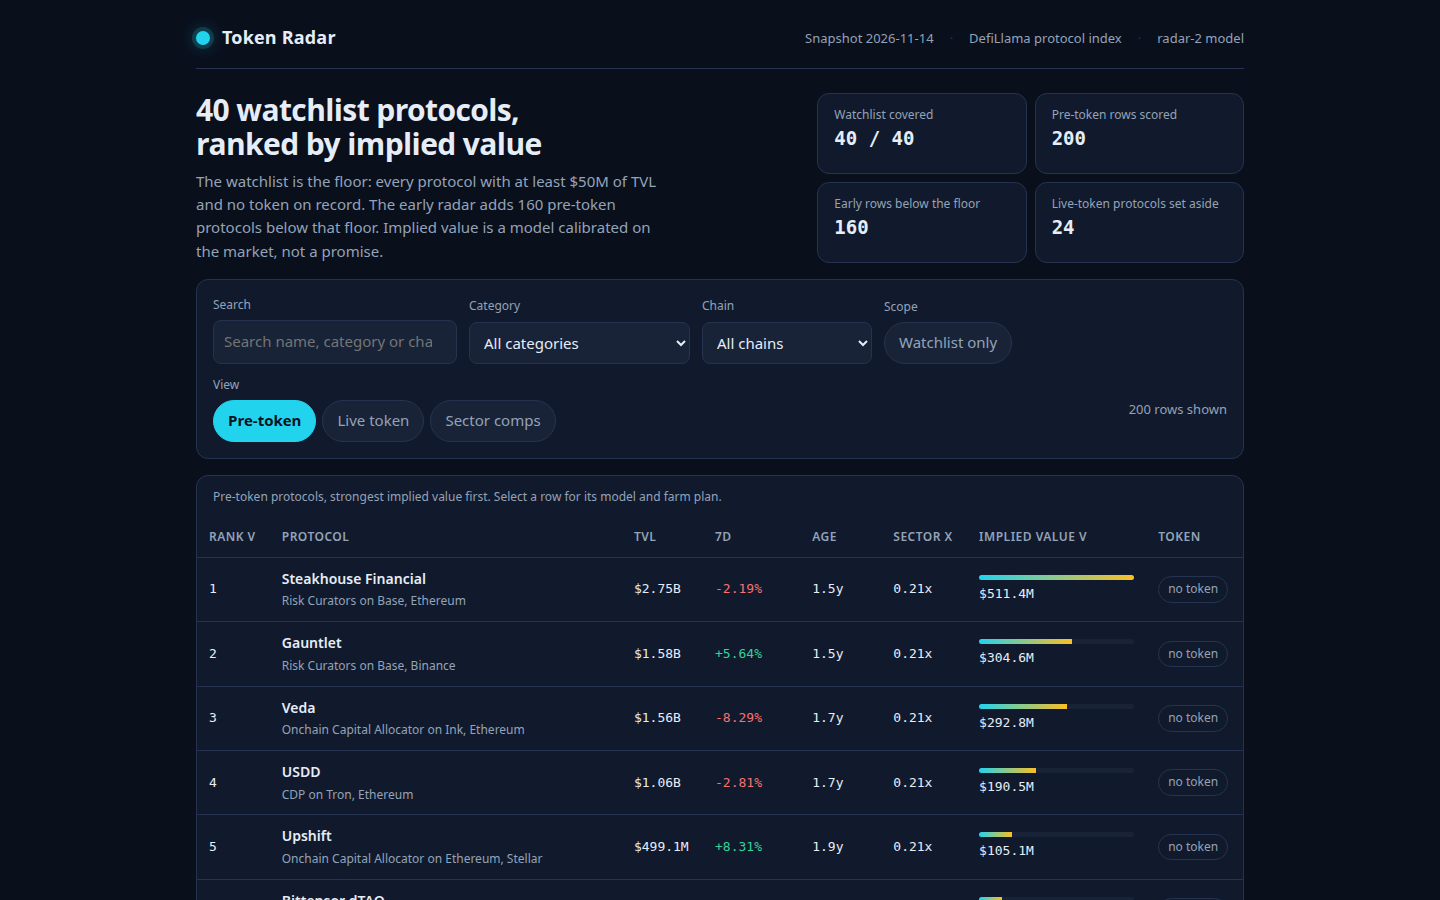
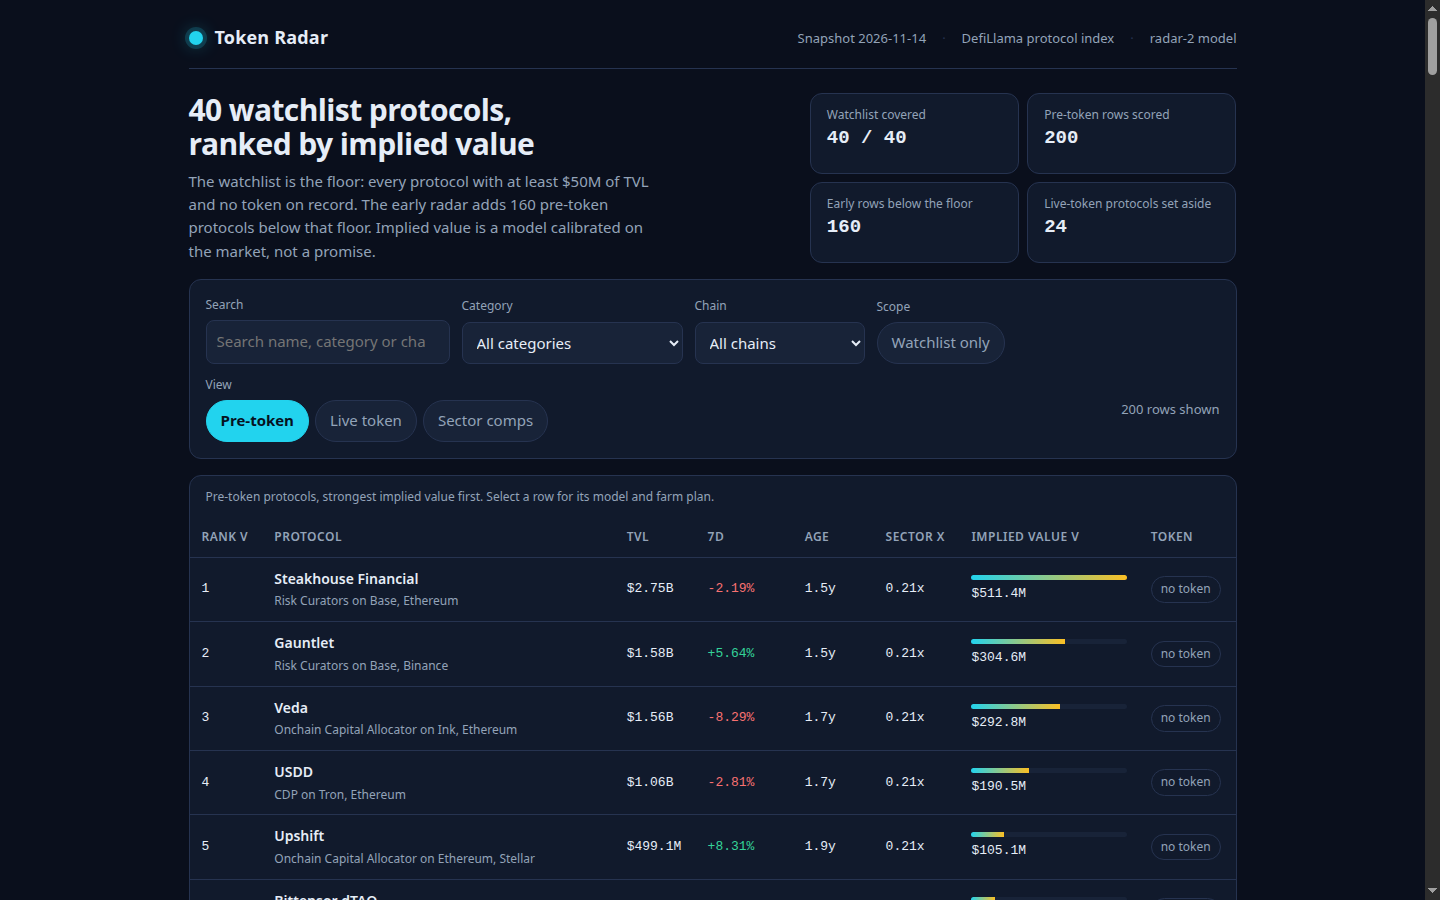
Revise: deeper farm plans, documented calibration, sector comps in detail view
- Farm plans grow from six to seven steps: a second-chain step for
  multi-chain protocols, per-chain gas figures, a TVL-tier label, an
  age-based horizon, and a watch-for step naming the one signal to
  check before a token is claimed.
- lib/model.ts documents the comps calibration in full: who counts as
  a trading comp, why the median and not the mean, the four-comp
  minimum and the market fallback, the 0.03-1.50 clamps, and why each
  multiplier exists.
- The detail view shows the sector comps behind a row's multiple:
  the sector, the comp count and whether the row fell back to the
  market median; data.js now carries sector and sector_comps per row.
- Screenshots retaken from the revised dashboard so the board, the
  detail view and the filtered view match the code.

Gate shape preserved: 200 rows, all 40 watchlist slugs covered,
ranks 1-200, implied values non-increasing, farm steps 3-12 each
20-600 chars, byte-identical output across two runs.

diff --git a/lib/model.ts b/lib/model.ts
@@ -21,8 +21,46 @@
 //   chainMult       = 1 + min(chains - 1, 5) x 0.02
 //   implied         = max(1, round(base x growthMult x maturity x chainMult))
 //
-// No protocol name is ever special-cased: the same function scores every row, and the sector
-// multiples are derived from the snapshot at run time, never written in by hand.
+// How the calibration is read out of the snapshot (computeComps, sectorMultiple):
+//   - A trading comp is a protocol whose record carries a token that already trades: it has both
+//     a market cap and a CoinGecko id, a positive TVL and a positive market cap, and the ratio of
+//     the two is a finite positive number. A protocol missing any of those is not a comp.
+//   - The sector multiple is the MEDIAN of the comps' market-cap-to-TVL ratios, not the mean.
+//     A median is used because one protocol with an extreme ratio (a tiny TVL with a large cap,
+//     or a stablecoin whose cap sits near its TVL) would drag a mean far from the sector's
+//     centre, while the median stays with the typical protocol in the sector.
+//   - A sector is only used when it holds at least four trading comps (MODEL.min_comps). With
+//     fewer than four, the sector's median rests on one or two names and is not a market; the
+//     protocol is priced at the whole market's median instead, and its sector is recorded as
+//     "Market" so the dashboard can say the row fell back.
+//   - The multiple is clamped to [0.03, 1.50]. Below 0.03 a protocol would be priced as though
+//     its token were nearly worthless however large its TVL, and above 1.50 a thin sector's
+//     median could price a pre-token protocol above the market cap of its own TVL's peers.
+//     The clamp keeps the board's values inside the range the market itself shows.
+//   - The multiples are derived from the snapshot at run time, every run, and are never written
+//     in by hand. The same snapshot that prices the board is the one the comps come from, so a
+//     different snapshot would price the board differently and the board is honest about it.
+//
+// Why each multiplier exists:
+//   - Growth (change_7d, clamped to -60..120, weight 0.5): a protocol whose TVL is growing is
+//     attracting deposits now, and a token issued into growth is worth more than one issued into
+//     decline. The clamp keeps a single week's spike or crash from doubling or halving a value.
+//   - Maturity (age with no token, 0.6 at day zero rising to 1.0 at three years): a protocol
+//     that has run for years with no token has had time to build the users and the TVL a launch
+//     would price, and the market has had time to expect one. A brand-new protocol is
+//     discounted. When the snapshot carries no listing date, the age is taken as 365 days, the
+//     middle of the range, rather than zero or three years.
+//   - Chain breadth (up to 1.10 for six or more chains): a protocol on several chains reaches
+//     more users and more liquidity than one on a single chain, so its token would launch into
+//     a wider market. The step is 0.02 a chain, capped at five steps, so breadth helps but
+//     never dominates the value.
+//
+// The farm plan is derived from the same record (category, chains, TVL, age), never from a
+// hand-written list of names. Gas is priced for the protocol's own chain, the capital follows
+// its TVL tier, the hold follows its age, and the watch step names what to check before a
+// token is claimed. No protocol name is ever special-cased: the same function scores every
+// row, and the sector multiples are derived from the snapshot at run time, never written in
+// by hand.
 
 /** The snapshot's protocol entry: exactly the ten fields the sealed input carries. */
 export interface SnapshotProtocol {
@@ -136,6 +174,8 @@ export interface RadarRow {
   listed_at: string | null;
   age_days: number | null;
   implied_value_usd: number;
+  sector: string;
+  sector_comps: number;
   sector_multiple: number;
   growth_multiplier: number;
   maturity_multiplier: number;
@@ -221,6 +261,10 @@ export function computeComps(snapshot: Snapshot, model: ModelConstants = MODEL):
   const ratios = new Map<string, number[]>();
   const all: number[] = [];
   for (const p of snapshot.protocols) {
+    // A comp must already trade: a market cap and a CoinGecko id, a positive TVL and a positive
+    // market cap, and a ratio that is a finite positive number. A protocol that records no token
+    // is the thing being priced, not a comp, and a zero or negative TVL would make the ratio
+    // meaningless, so both are left out rather than patched with a guess.
     if (p.mcap_usd === null || p.gecko_id === null) continue;
     if (p.tvl_usd <= 0 || p.mcap_usd <= 0) continue;
     const ratio = p.mcap_usd / p.tvl_usd;
@@ -231,6 +275,8 @@ export function computeComps(snapshot: Snapshot, model: ModelConstants = MODEL):
     list.push(ratio);
     ratios.set(sector, list);
   }
+  // The median is taken over a sorted list, so one protocol with an extreme ratio cannot move it:
+  // a mean would let a single tiny-TVL protocol with a large cap set the sector's price.
   all.sort((a, b) => a - b);
   const global = medianOf(all) ?? 0.25;
   const bySector = new Map<string, SectorComp>();
@@ -265,11 +311,18 @@ export function impliedValue(
   model: ModelConstants = MODEL,
 ): { implied: number; growthPct: number; growthMult: number; maturityMult: number; chainMult: number; sectorMultiple: number; sector: string; sectorComps: number; age: number | null } {
   const age = ageDays(asOf, protocol.listed_at);
+  // Growth is clamped before it is weighted: a single week's spike or crash must not double or
+  // halve a value, and a protocol with no reported change is scored at zero growth, not punished.
   const rawGrowth = finite(protocol.change_7d, 0);
   const growthPct = Math.min(model.growth_cap, Math.max(model.growth_floor, rawGrowth));
   const growthMult = 1 + (growthPct / 100) * model.growth_weight;
+  // Maturity rises with age and stops at three years: beyond that the protocol has already had
+  // the whole window a launch would price, and more age adds nothing. An unknown age is taken
+  // as one year, the middle of the range, rather than zero or three years.
   const ageForModel = age ?? model.unknown_age_days;
   const maturityMult = model.maturity_floor + (Math.min(Math.max(ageForModel, 0), model.maturity_days) / model.maturity_days) * model.maturity_range;
+  // Chain breadth adds a little for each extra chain, capped at five steps: distribution helps,
+  // but a protocol on ten chains is not twice as valuable as one on five.
   const chainSteps = Math.min(Math.max(protocol.chains.length - 1, 0), model.chain_max_steps);
   const chainMult = 1 + chainSteps * model.chain_step;
   const priced = sectorMultiple(protocol.category, comps, model);
@@ -388,6 +441,46 @@ function gasFor(chain: string): number {
   return 3;
 }
 
+/** The protocol's TVL tier, in words: the capital a farm position needs follows it, and the plan
+ *  names the tier so a reader can tell at a glance how large a position this farm is. */
+function tierLabel(p: SnapshotProtocol): string {
+  if (p.tvl_usd >= 5_000_000_000) return 'a large protocol, over $5B of TVL';
+  if (p.tvl_usd >= 1_000_000_000) return 'a mid-size protocol, $1B to $5B of TVL';
+  if (p.tvl_usd >= 100_000_000) return 'a smaller protocol, $100M to $1B of TVL';
+  return 'a small protocol, under $100M of TVL';
+}
+
+/** What one transaction costs on each chain this protocol runs on, in whole dollars, so the plan
+ *  can quote the gas a weekly action actually costs instead of one chain's figure. */
+function gasTableFor(p: SnapshotProtocol): string {
+  const chains = p.chains.length > 0 ? p.chains.slice(0, 3) : ['its main chain'];
+  return chains.map((c) => `${c} about $${gasFor(c)}`).join(', ');
+}
+
+/** A horizon for the farm, from the protocol's age: a younger protocol has had less time to be
+ *  noticed, so its qualifying window is longer; an older one has a shorter window left. */
+function timelineFor(age: number | null): string {
+  if (age === null) return 'four weeks of weekly actions, then a 30-day hold';
+  if (age < 180) return 'eight weeks of weekly actions, then a 60-day hold';
+  if (age < 365) return 'six weeks of weekly actions, then a 45-day hold';
+  return 'four weeks of weekly actions, then a 30-day hold';
+}
+
+/** What to watch before a token is claimed, by category: the one signal that tells a farmer
+ *  whether the position is still worth holding, and the first sign to leave. */
+function watchFor(p: SnapshotProtocol): string {
+  const c = (p.category ?? '').toLowerCase();
+  const name = p.name;
+  if (c.includes('lend') || c.includes('cdp') || c.includes('collateral')) return `the borrow rate and the points page on ${name}: a rising rate with no points is a farm with no reward.`;
+  if (c.includes('dex') || c.includes('yield') || c.includes('leveraged farm') || c.includes('liquidity manager')) return `the pool's fee revenue and the points page on ${name}: fees with no points still pay, points with no fees do not.`;
+  if (c.includes('bridge') || c.includes('cross chain')) return `bridge finality and the destination chain's balance on ${name}: a bridge that has not settled is not a completed farm.`;
+  if (c.includes('staking') || c.includes('restak')) return `the staking yield and the receipt token's price on ${name}: a falling yield is the first sign the farm is crowded.`;
+  if (c.includes('perpetual') || c.includes('derivative') || c.includes('options')) return `the funding rate and the margin balance on ${name}: a funding rate that stays negative eats the position.`;
+  if (c.includes('rwa')) return `the underlying asset's yield and the redemption window on ${name}: a yield that falls below the chain's base rate is a farm to leave.`;
+  if (c.includes('risk curator') || c.includes('curator') || c.includes('allocator') || c.includes('onchain capital')) return `the vault's allocation and its curator's history on ${name}: a vault that changes strategy without notice is a farm to leave.`;
+  return `the points page and the protocol's own announcements on ${name}: a snapshot date is only real when the protocol publishes it.`;
+}
+
 /** The category's one action, in the words a farmer can follow. */
 function actionFor(p: SnapshotProtocol, capital: number, chain: string): string {
   const c = (p.category ?? '').toLowerCase();
@@ -423,10 +516,11 @@ function secondActionFor(p: SnapshotProtocol, capital: number, chain: string): s
 }
 
 /**
- * A protocol's farm plan: six steps, each an action with a cost and a time. The plan is derived
+ * A protocol's farm plan: seven steps, each an action with a cost and a time. The plan is derived
  * from the protocol's own record (category, chains, TVL, age), never from a hand-written list of
- * names. Gas is priced for the protocol's own chain, and the capital and the hold follow its TVL
- * and its age.
+ * names. Gas is priced for the protocol's own chains, the capital follows its TVL tier, the hold
+ * follows its age, and the last step names the one signal to watch before a token is claimed.
+ * A multi-chain protocol gets a second-chain step; a single-chain one is told to stay put.
  */
 export function farmSteps(p: SnapshotProtocol, age: number | null): FarmStep[] {
   const chain = chainOf(p);
@@ -435,10 +529,19 @@ export function farmSteps(p: SnapshotProtocol, age: number | null): FarmStep[] {
   const gas = gasFor(chain);
   const action = actionFor(p, capital, chain);
   const second = secondActionFor(p, capital, chain);
+  const tier = tierLabel(p);
+  const gasTable = gasTableFor(p);
+  const timeline = timelineFor(age);
+  const watch = watchFor(p);
   const otherChains = p.chains.length > 1 ? ` It also runs on ${p.chains.slice(1, 3).join(' and ')}.` : '';
+  const multiChain =
+    p.chains.length > 1
+      ? `Repeat the first deposit on ${p.chains[1]} as well, so the record shows use on more than one chain.`
+      : `Keep the position on ${chain}; a second chain would only split the record.`;
+  const secondChainGas = gasFor(p.chains.length > 1 ? p.chains[1]! : chain);
   return [
     {
-      text: `Use a fresh wallet that holds only the funds you plan to farm, and keep its seed phrase offline.${otherChains}`,
+      text: `Use a fresh wallet that holds only the funds you plan to farm, and keep its seed phrase offline. This is ${tier}, so farm with $${capital} of capital.${otherChains}`,
       cost: `about $${gas} of gas for the first transaction on ${chain}`,
       time: '5 minutes',
     },
@@ -453,17 +556,22 @@ export function farmSteps(p: SnapshotProtocol, age: number | null): FarmStep[] {
       time: '10 minutes',
     },
     {
-      text: `Make one qualifying action each week, such as a deposit, a borrow, a swap or a vote.`,
+      text: multiChain,
+      cost: `about $${secondChainGas} of gas on the second chain`,
+      time: '10 minutes',
+    },
+    {
+      text: `Make one qualifying action each week, such as a deposit, a borrow, a swap or a vote. Gas runs ${gasTable}.`,
       cost: `about $${gas} of gas a week`,
       time: '10 minutes a week',
     },
     {
-      text: `Hold the position for at least ${hold} days so the activity is counted in more than one snapshot.`,
+      text: `Hold the position for at least ${hold} days so the activity is counted in more than one snapshot. The plan's horizon is ${timeline}.`,
       cost: `the $${capital} stays in the position`,
       time: `${hold} days`,
     },
     {
-      text: `Before you withdraw, open the protocol's own points or rewards page and claim only from the link it publishes. Write the wallet, the dates and every transaction in a farm log so you can repeat the position or unwind it.`,
+      text: `Watch ${watch} Before you withdraw, open the protocol's own points or rewards page and claim only from the link it publishes. Write the wallet, the dates and every transaction in a farm log so you can repeat the position or unwind it.`,
       cost: 'no fee to check, and never pay to claim',
       time: '15 minutes',
     },
@@ -487,7 +595,8 @@ export function liveRows(snapshot: Snapshot): LiveRow[] {
     }));
 }
 
-/** A board row's compact form for data.js. */
+/** A board row's compact form for data.js. The sector name and the comp count ride along so the
+ *  detail view can say which comps priced the row, and whether the row fell back to the market. */
 export function radarRow(row: BoardRow): RadarRow {
   return {
     rank: row.rank,
@@ -501,6 +610,8 @@ export function radarRow(row: BoardRow): RadarRow {
     listed_at: row.listed_at,
     age_days: row.age_days,
     implied_value_usd: row.implied_value_usd,
+    sector: row.model.sector,
+    sector_comps: row.model.sector_comps,
     sector_multiple: row.model.sector_multiple,
     growth_multiplier: row.model.growth_multiplier,
     maturity_multiplier: row.model.maturity_multiplier,

diff --git a/dashboard/app.js b/dashboard/app.js
@@ -87,6 +87,39 @@
     if (c === 'base' || c === 'arbitrum' || c === 'optimism' || c === 'polygon' || c === 'avalanche' || c === 'binance' || c === 'bnb chain' || c === 'blast' || c === 'mode' || c === 'zksync era') return 1;
     return 3;
   }
+  // The protocol's TVL tier, in words: the capital a farm position needs follows it.
+  function tierLabel(p) {
+    if (p.tvl_usd >= 5e9) return 'a large protocol, over $5B of TVL';
+    if (p.tvl_usd >= 1e9) return 'a mid-size protocol, $1B to $5B of TVL';
+    if (p.tvl_usd >= 1e8) return 'a smaller protocol, $100M to $1B of TVL';
+    return 'a small protocol, under $100M of TVL';
+  }
+  // What one transaction costs on each chain this protocol runs on, in whole dollars.
+  function gasTableFor(p) {
+    var chains = p.chains && p.chains.length > 0 ? p.chains.slice(0, 3) : ['its main chain'];
+    return chains.map(function (c) { return c + ' about $' + gasFor(c); }).join(', ');
+  }
+  // A horizon for the farm, from the protocol's age: younger protocols need a longer window.
+  function timelineFor(age) {
+    if (age === null || age === undefined) return 'four weeks of weekly actions, then a 30-day hold';
+    if (age < 180) return 'eight weeks of weekly actions, then a 60-day hold';
+    if (age < 365) return 'six weeks of weekly actions, then a 45-day hold';
+    return 'four weeks of weekly actions, then a 30-day hold';
+  }
+  // What to watch before a token is claimed, by category: the one signal that tells a farmer
+  // whether the position is still worth holding, and the first sign to leave.
+  function watchFor(p) {
+    var c = (p.category || '').toLowerCase();
+    var name = p.name;
+    if (c.indexOf('lend') >= 0 || c.indexOf('cdp') >= 0 || c.indexOf('collateral') >= 0) return 'the borrow rate and the points page on ' + name + ': a rising rate with no points is a farm with no reward.';
+    if (c.indexOf('dex') >= 0 || c.indexOf('yield') >= 0 || c.indexOf('leveraged farm') >= 0 || c.indexOf('liquidity manager') >= 0) return "the pool's fee revenue and the points page on " + name + ': fees with no points still pay, points with no fees do not.';
+    if (c.indexOf('bridge') >= 0 || c.indexOf('cross chain') >= 0) return "bridge finality and the destination chain's balance on " + name + ': a bridge that has not settled is not a completed farm.';
+    if (c.indexOf('staking') >= 0 || c.indexOf('restak') >= 0) return "the staking yield and the receipt token's price on " + name + ': a falling yield is the first sign the farm is crowded.';
+    if (c.indexOf('perpetual') >= 0 || c.indexOf('derivative') >= 0 || c.indexOf('options') >= 0) return 'the funding rate and the margin balance on ' + name + ': a funding rate that stays negative eats the position.';
+    if (c.indexOf('rwa') >= 0) return "the underlying asset's yield and the redemption window on " + name + ": a yield that falls below the chain's base rate is a farm to leave.";
+    if (c.indexOf('risk curator') >= 0 || c.indexOf('curator') >= 0 || c.indexOf('allocator') >= 0 || c.indexOf('onchain capital') >= 0) return "the vault's allocation and its curator's history on " + name + ': a vault that changes strategy without notice is a farm to leave.';
+    return "the points page and the protocol's own announcements on " + name + ': a snapshot date is only real when the protocol publishes it.';
+  }
   function actionFor(p, capital, chain) {
     var c = (p.category || '').toLowerCase();
     var name = p.name;
@@ -123,19 +156,31 @@
     if (s.length < 20) s = s + " Hold the position and check the protocol's own page.";
     return s;
   }
+  // Seven steps, the same derivation main.ts writes to board.json: category, chains, TVL and age
+  // decide the action, the capital, the hold, the gas on each chain and what to watch. No name
+  // is special-cased, and a multi-chain protocol gets a second-chain step.
   function farmSteps(p) {
     var chain = chainOf(p);
     var capital = capitalFor(p);
     var hold = holdDaysFor(p.age_days);
     var gas = gasFor(chain);
+    var tier = tierLabel(p);
+    var gasTable = gasTableFor(p);
+    var timeline = timelineFor(p.age_days);
+    var watch = watchFor(p);
     var other = p.chains && p.chains.length > 1 ? ' It also runs on ' + p.chains.slice(1, 3).join(' and ') + '.' : '';
+    var multiChain = p.chains && p.chains.length > 1
+      ? 'Repeat the first deposit on ' + p.chains[1] + ' as well, so the record shows use on more than one chain.'
+      : 'Keep the position on ' + chain + '; a second chain would only split the record.';
+    var secondChainGas = gasFor(p.chains && p.chains.length > 1 ? p.chains[1] : chain);
     return [
-      { text: 'Use a fresh wallet that holds only the funds you plan to farm, and keep its seed phrase offline.' + other, cost: 'about $' + gas + ' of gas for the first transaction on ' + chain, time: '5 minutes' },
+      { text: 'Use a fresh wallet that holds only the funds you plan to farm, and keep its seed phrase offline. This is ' + tier + ', so farm with $' + capital + ' of capital.' + other, cost: 'about $' + gas + ' of gas for the first transaction on ' + chain, time: '5 minutes' },
       { text: actionFor(p, capital, chain), cost: '$' + capital + ' of capital and about $' + gas + ' of gas', time: '15 minutes to set up' },
       { text: secondActionFor(p, capital, chain), cost: 'about $' + gas + ' of gas, plus the $' + Math.max(10, Math.round(capital / 5)) + ' moved', time: '10 minutes' },
-      { text: 'Make one qualifying action each week, such as a deposit, a borrow, a swap or a vote.', cost: 'about $' + gas + ' of gas a week', time: '10 minutes a week' },
-      { text: 'Hold the position for at least ' + hold + ' days so the activity is counted in more than one snapshot.', cost: 'the $' + capital + ' stays in the position', time: hold + ' days' },
-      { text: "Before you withdraw, open the protocol's own points or rewards page and claim only from the link it publishes. Write the wallet, the dates and every transaction in a farm log so you can repeat the position or unwind it.", cost: 'no fee to check, and never pay to claim', time: '15 minutes' }
+      { text: multiChain, cost: 'about $' + secondChainGas + ' of gas on the second chain', time: '10 minutes' },
+      { text: 'Make one qualifying action each week, such as a deposit, a borrow, a swap or a vote. Gas runs ' + gasTable + '.', cost: 'about $' + gas + ' of gas a week', time: '10 minutes a week' },
+      { text: 'Hold the position for at least ' + hold + ' days so the activity is counted in more than one snapshot. The plan\'s horizon is ' + timeline + '.', cost: 'the $' + capital + ' stays in the position', time: hold + ' days' },
+      { text: 'Watch ' + watch + ' Before you withdraw, open the protocol\'s own points or rewards page and claim only from the link it publishes. Write the wallet, the dates and every transaction in a farm log so you can repeat the position or unwind it.', cost: 'no fee to check, and never pay to claim', time: '15 minutes' }
     ].map(stepText);
   }
 
@@ -407,6 +452,15 @@
         el('div', null, el('span', { text: 'Implied value' }), el('b', { class: 'num', text: fmtUsd(row.implied_value_usd) }))
       ),
       el('p', { class: 'note', text: 'Model ' + DATA.model_version + ': the same function scores every protocol. The page recomputes this row as ' + fmtUsd(impliedOf(row)) + (impliedOf(row) === row.implied_value_usd ? ', the same number board.json carries.' : ', which differs from the board: the data would be stale.') + ' This is an estimate, not a price.' })
+    ));
+    // The comps behind the row's multiple: which sector priced it, how many trading protocols
+    // the median rests on, and whether the row fell back to the market median.
+    var compsNote = row.sector_comps > 0
+      ? 'Priced from ' + row.sector_comps + ' trading comps in ' + (row.sector || row.category || 'its sector') + ', at a median market-cap-to-TVL ratio of ' + fmtMult(row.sector_multiple) + '. The median is read out of this same snapshot, so the same sector on a different snapshot would price differently.'
+      : 'Priced from the market median of ' + fmtMult(row.sector_multiple) + ': its sector had fewer than four trading protocols, so no sector multiple was used and the row fell back to the whole market.';
+    dialog.appendChild(el('section', { class: 'detail-section' },
+      el('h3', { text: 'Sector comps' }),
+      el('p', { class: 'note', text: compsNote })
     ));
     dialog.appendChild(el('section', { class: 'detail-section' },
       el('h3', { text: 'Farm plan' }),
